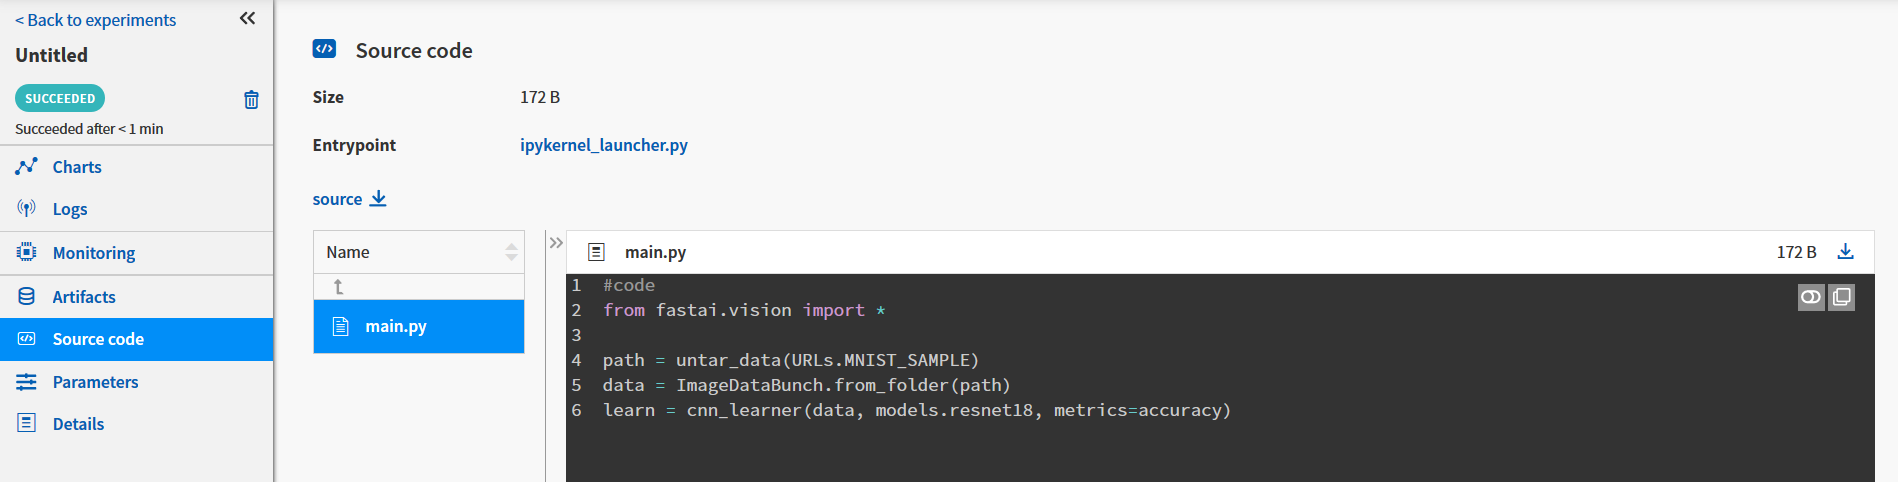
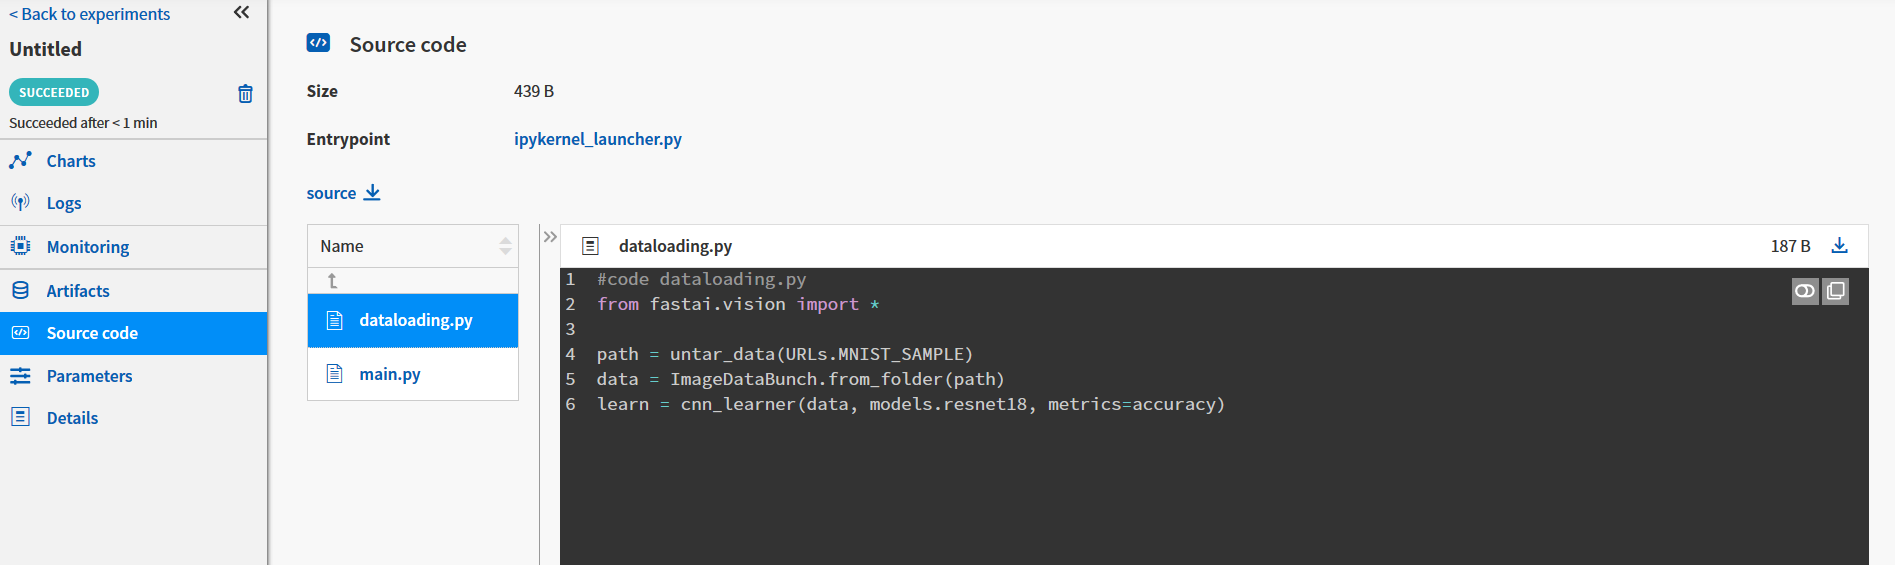
Changed the import type in index

diff --git a/fast_neptune/__init__.py b/fast_neptune/__init__.py
@@ -1,1 +1,1 @@
-__version__ = "0.0.2"
+__version__ = "0.0.4"

diff --git a/README.md b/README.md
@@ -71,13 +71,6 @@ project_name = "fast-neptune"
 project = session.get_project(project_qualified_name=f'{user_name}/{project_name}')
 ```
 
-    Please enter your NeptuneML API token : 
-    
-
-    WARNING: Instantiating Session without specifying a backend is deprecated and will be removed in future versions. For current behaviour use `neptune.init(...)` or `Session.with_default_backend(...)
-    WARNING: It is not secure to place API token in your source code. You should treat it as a password to your account. It is strongly recommended to use NEPTUNE_API_TOKEN environment variable instead. Remember not to upload source file with API token to any public repository.
-    
-
 Now we will start using `fast-neptune`.
 
 First we will record the code used to load the data and learner. To do so, we simply add `#code` to the cell used to load the data.
@@ -154,15 +147,13 @@ Now if we go on the link provided by NeptuneML we can have a closer look at this
 
 Here we can see the parameters that were registered, including epoch, learning rate, OS, and Python version.
 
-![Parameters](imgs\parameters.PNG)
+<img src="imgs\parameters.PNG">
 
 In the source code tab, we can have a look at the bits of code we registered, here the dataloading.
-![Code](imgs\code.PNG)
+<img src="imgs\code.PNG">
 
 In the artifacts we also have the modules used in this notebook with their version : 
-
-![Requirements](imgs\requirements.PNG)
+<img src="imgs\requirements.PNG">
 
 Finally, we logged the validation accuracy, which can be found in the Logs tab : 
-
-![Parameters](imgs\valid_score.PNG)
+<img src="imgs\valid_score.PNG">
